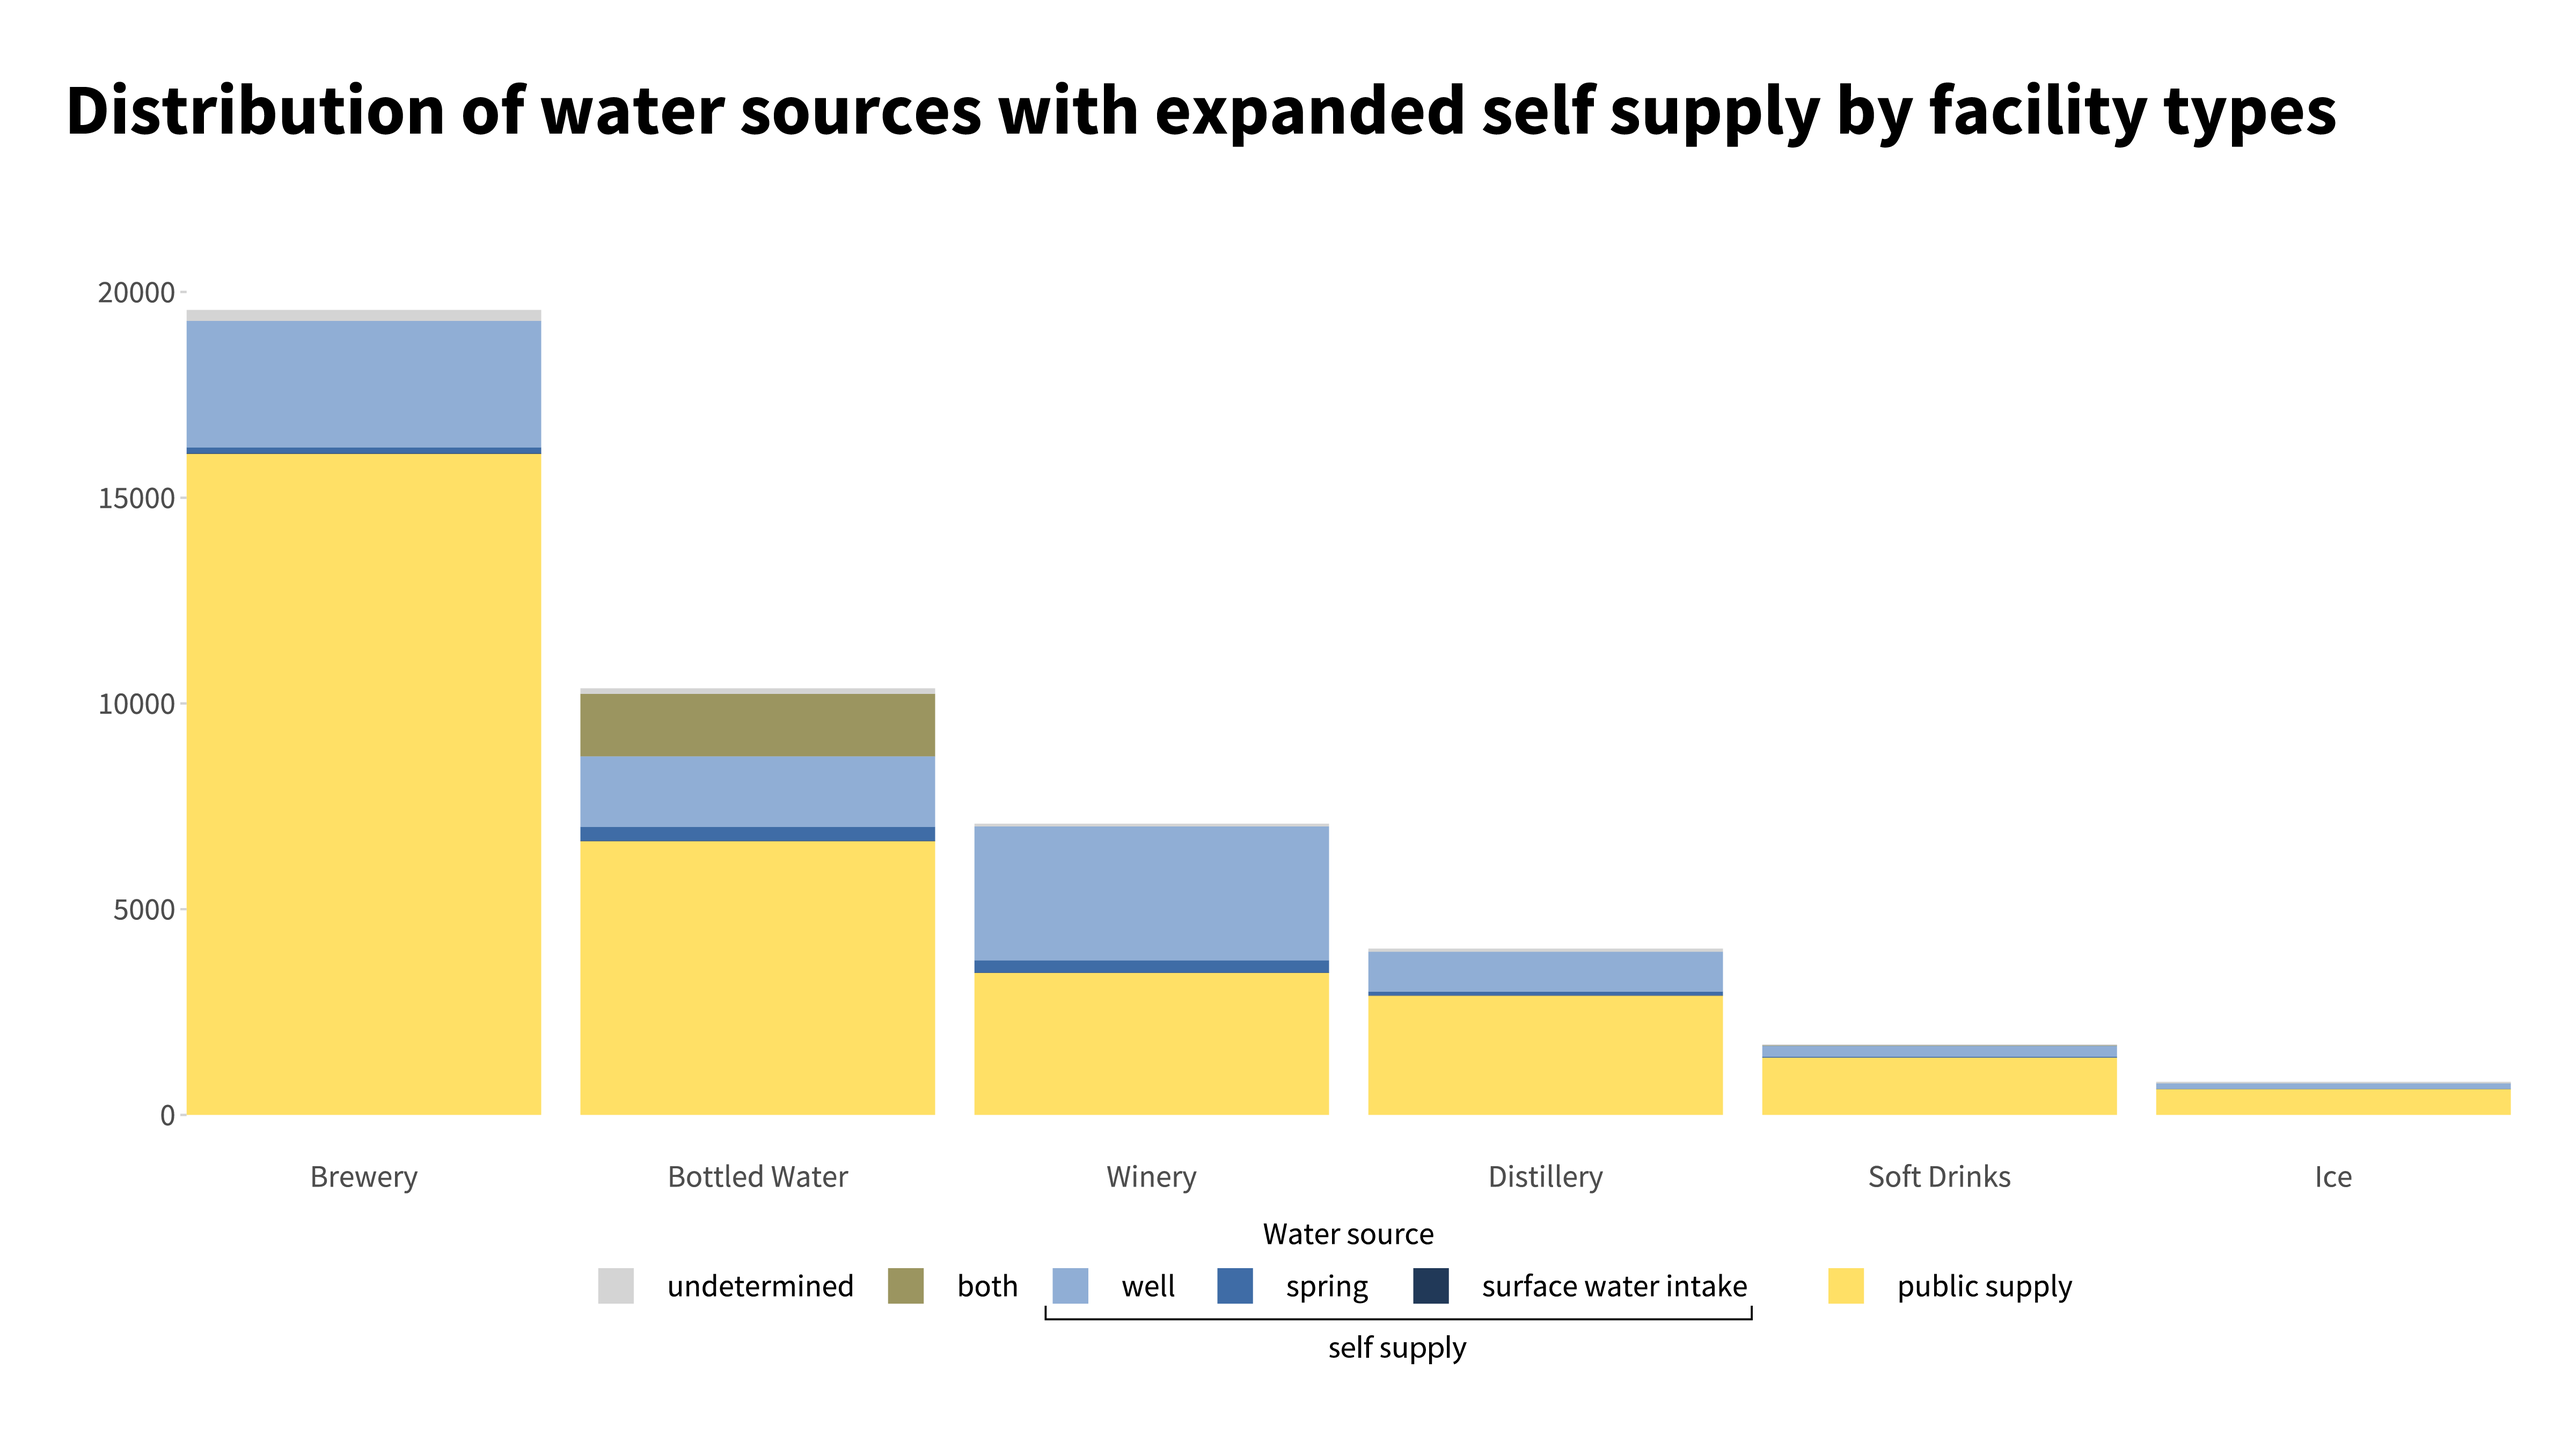
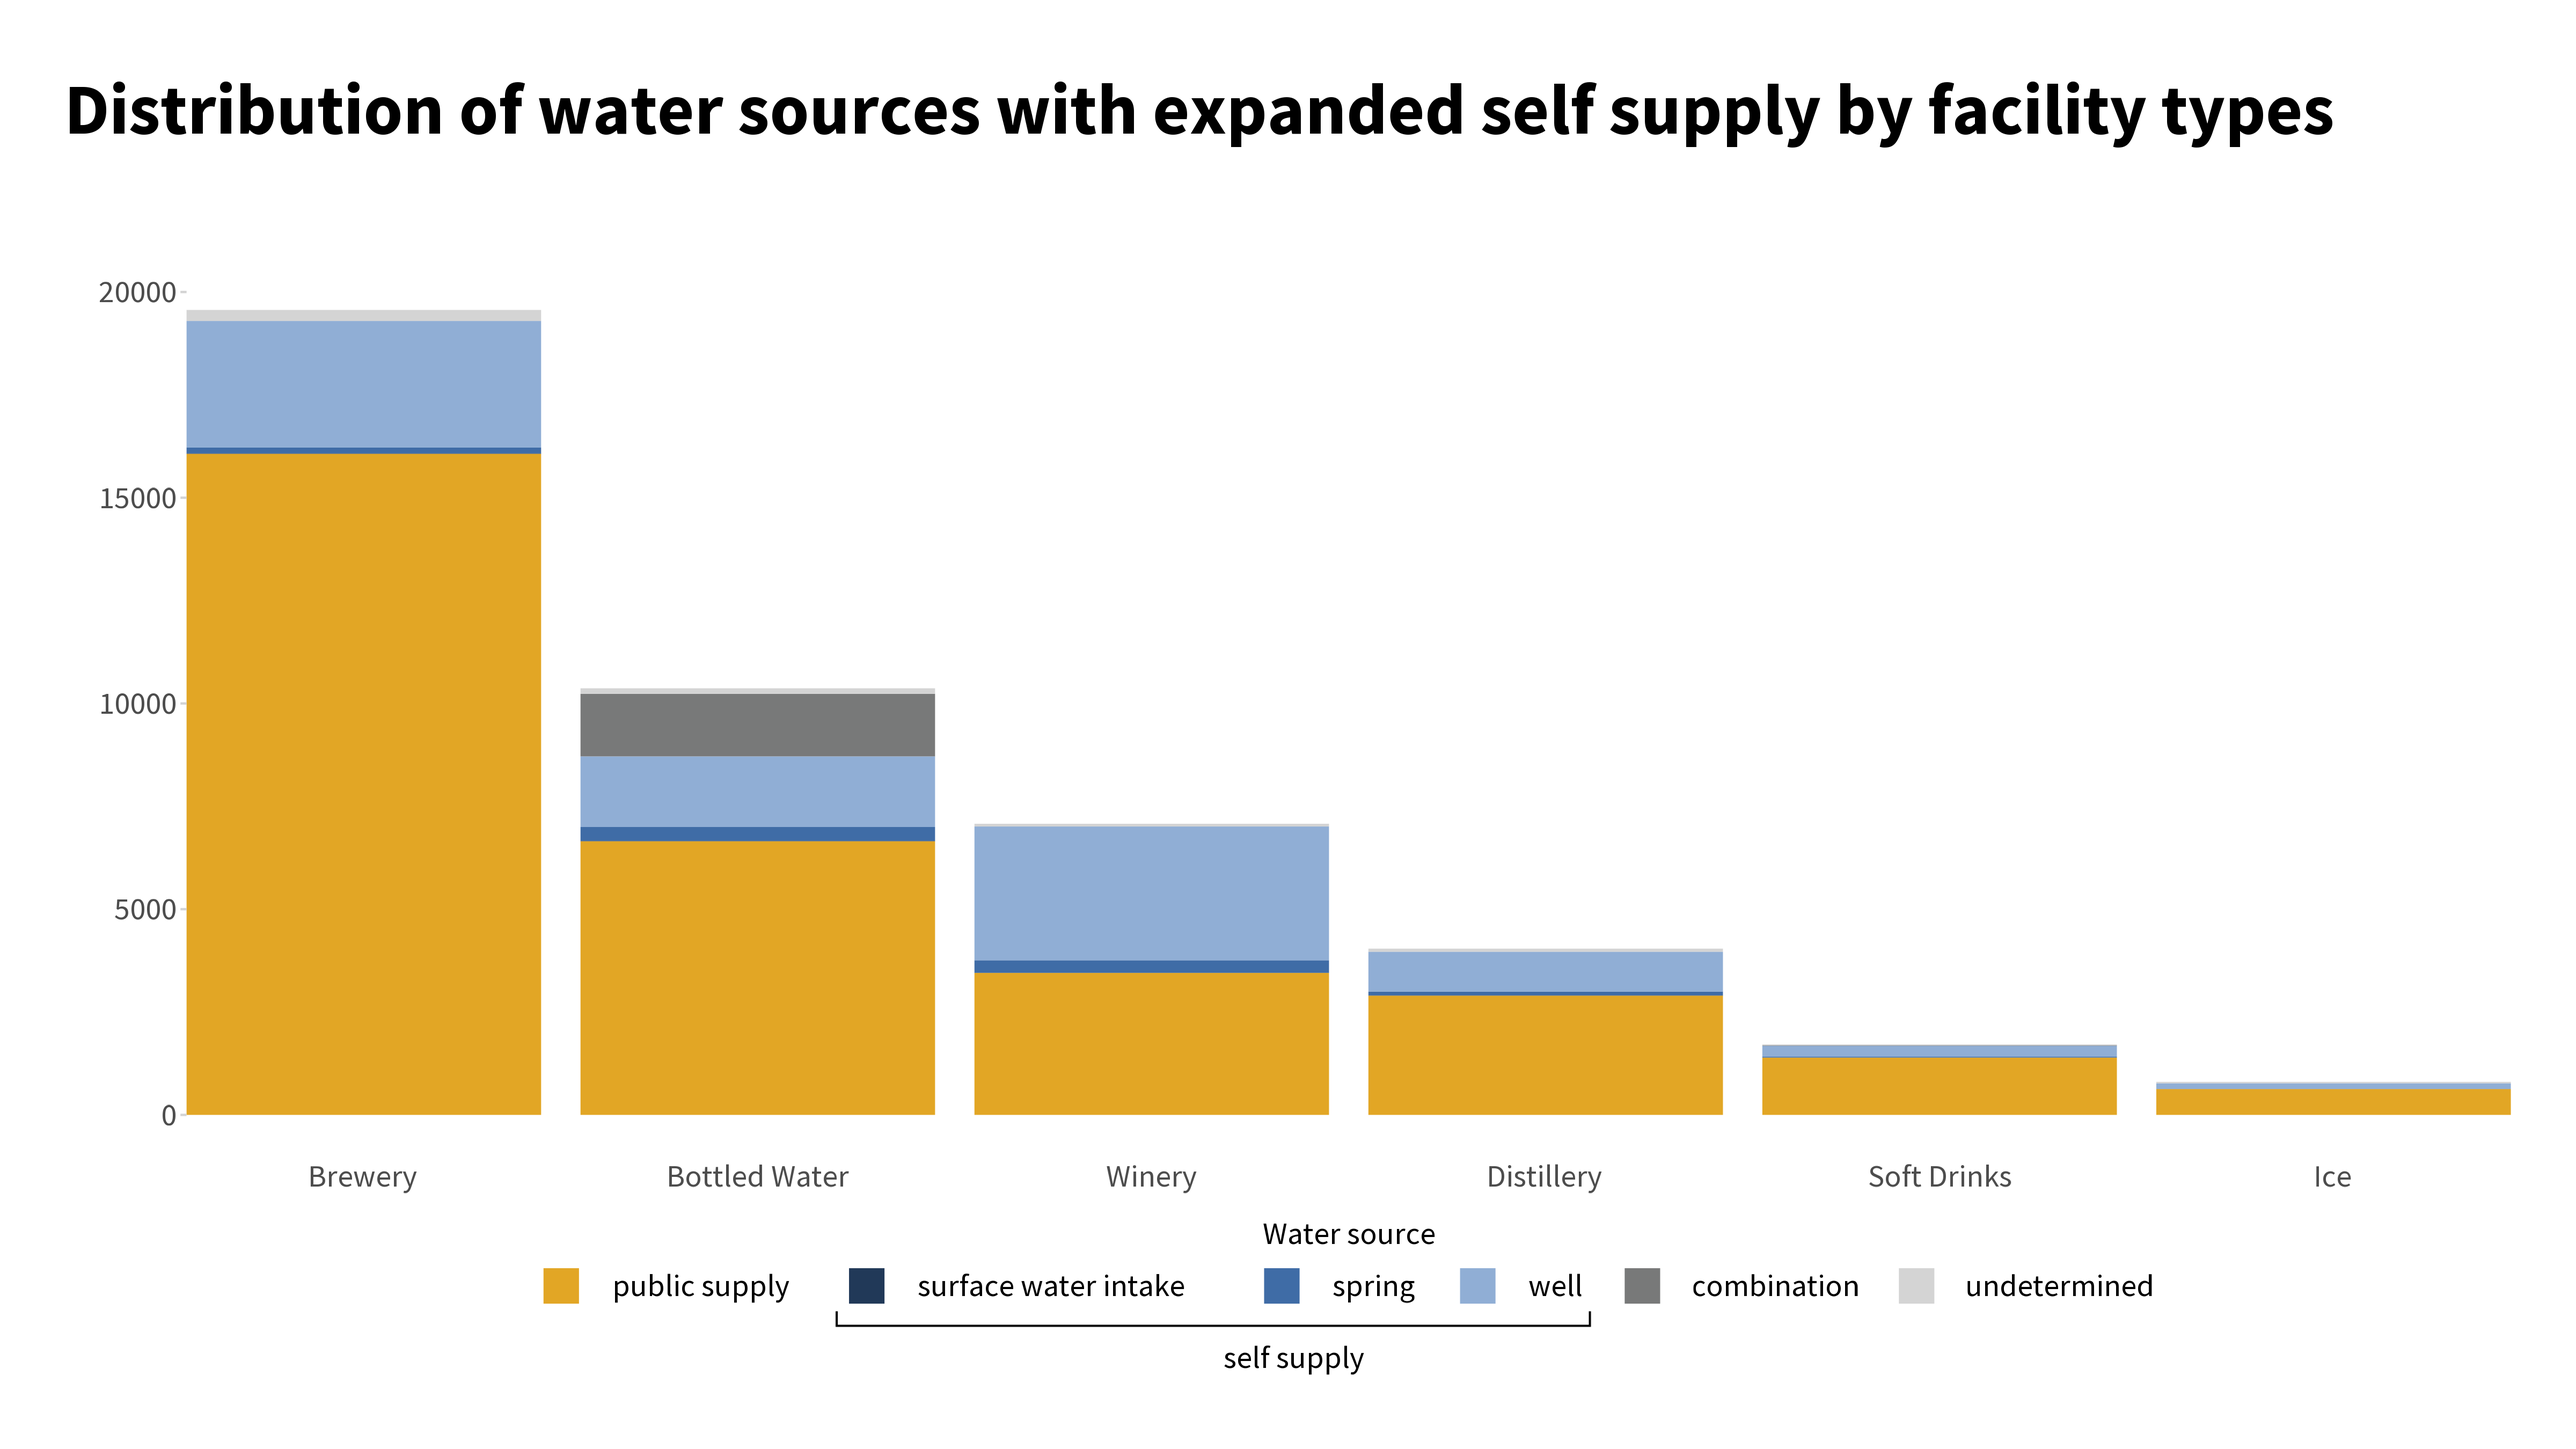
Update Elmera charts w/ new water source terms and new colors

diff --git a/src/components/WaterSource.vue b/src/components/WaterSource.vue
@@ -25,7 +25,7 @@
             How do different facility types source water?
           </p>
         </div>
-        <img src="../assets/images/national_sources_facilities_sanky.png">
+        <img src="../assets/images/national_sources_facilities_sankey.png">
         <img src="../assets/images/perc_expanded_self_supply_barplot.png">
         <img src="../assets/images/count_expanded_self_supply_barplot.png">
       </div>
@@ -35,7 +35,7 @@
             How do bottled water facilities in each state source water?
           </p>
         </div>
-        <img src="../assets/images/state_sources_facet_bottled_water.png">
+        <img src="../assets/images/state_sources_facet_Bottled Water_styled.png">
         <img src="../assets/images/map_count_bottled_water_expand_self_supply_map.png">
       </div>
     </div>
